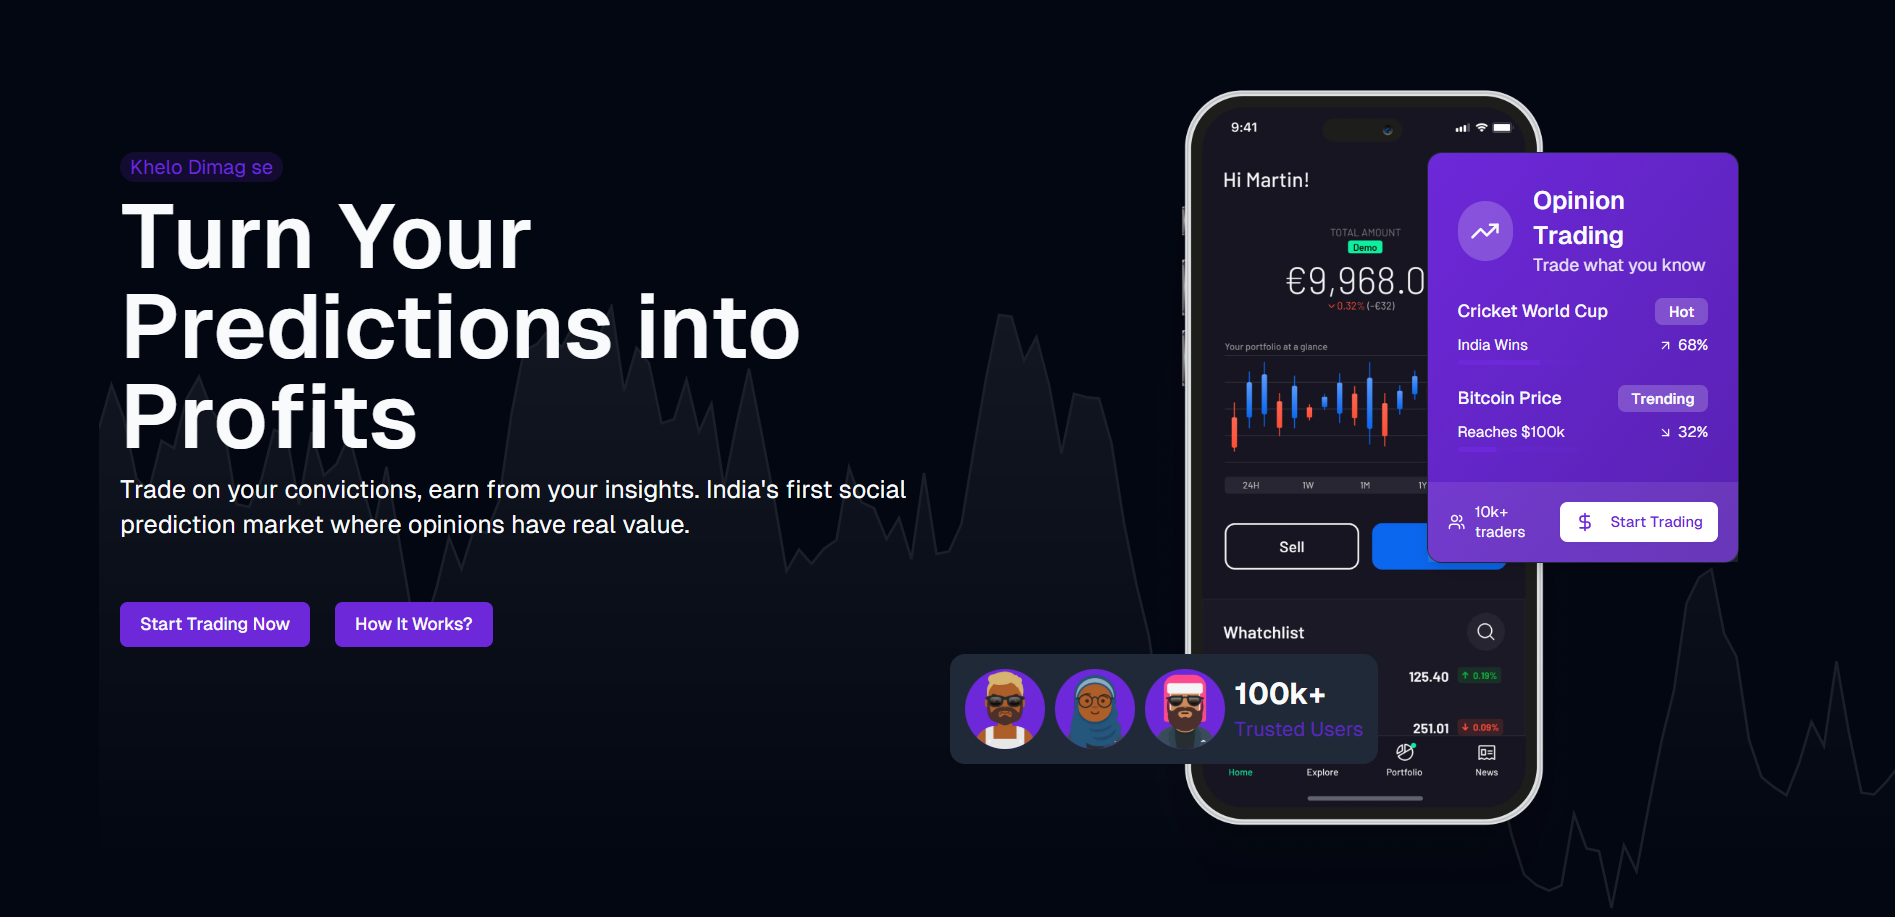
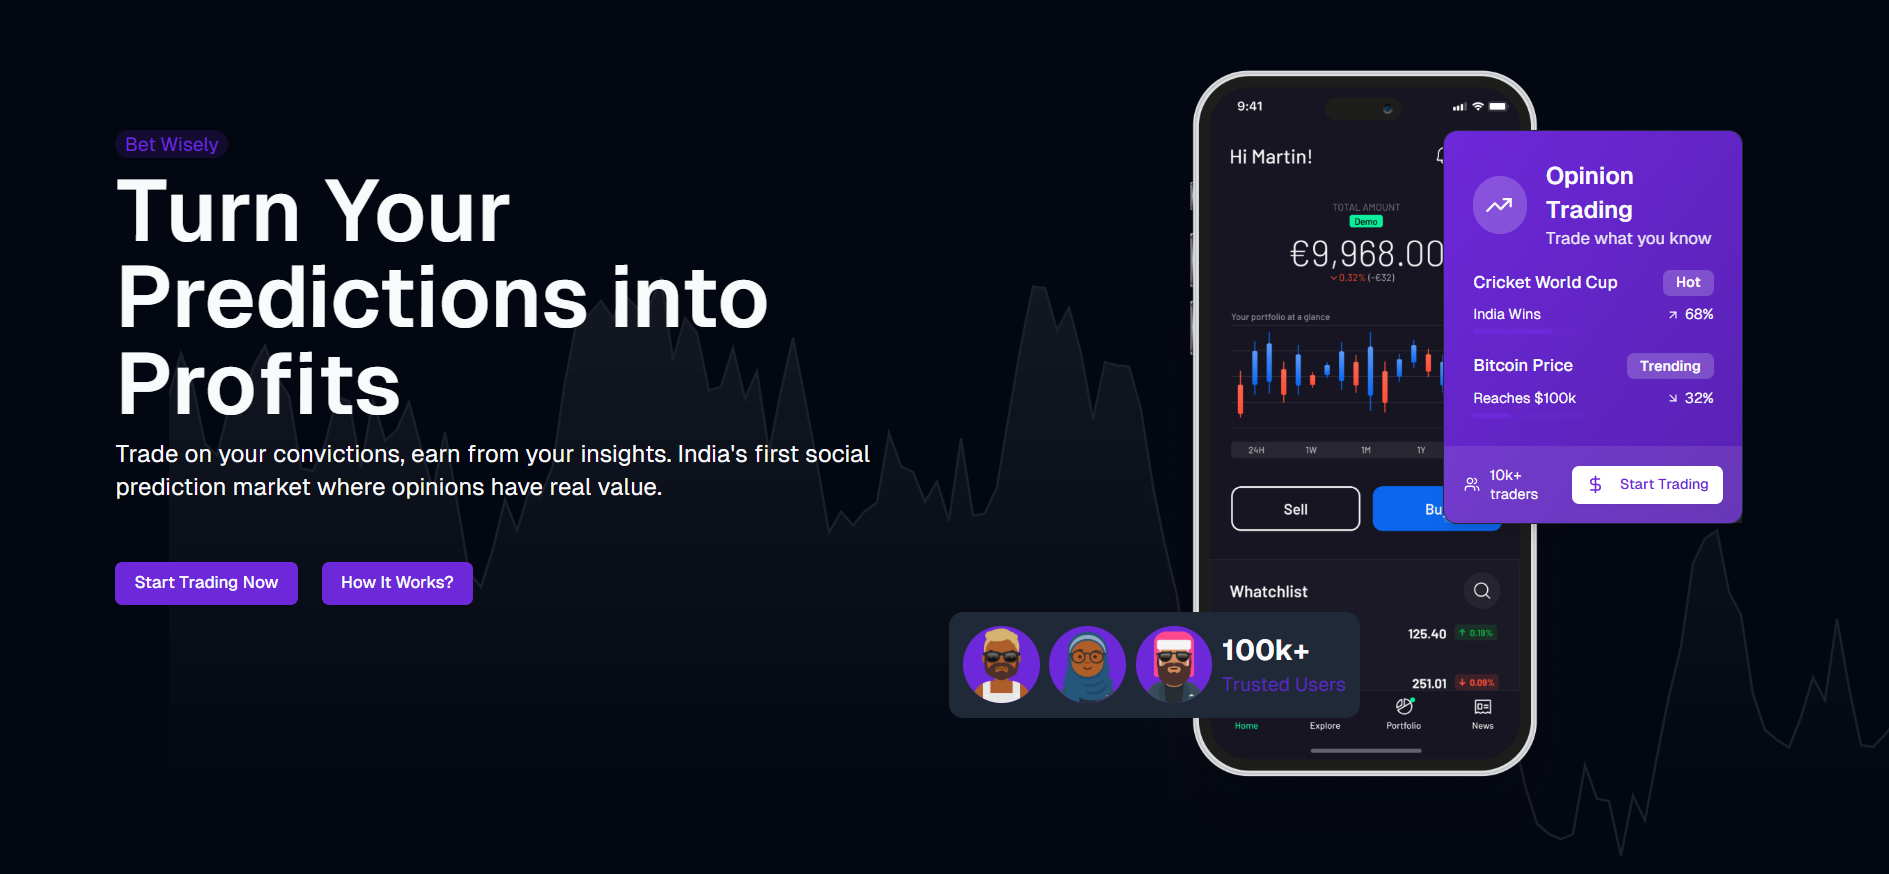
ui improvement

diff --git a/components/ui/What-people-are-saying.tsx b/components/ui/What-people-are-saying.tsx
@@ -9,7 +9,7 @@ const Whatpeoplearesaying = () => {
       </div>
       <div className="bg-background w-full flex flex-col justify-center align-middle items-center  rounded-3xl md:px-10 px-2 py-5 text-center">
         <div className="text-primary text-3xl md:text-7xl font-semibold max-w-4xl">
-          Real Stories, Real Success: Hear From Our Khelo Community
+          Real Stories, Real Success: Hear From Our Betwise Community
         </div>
         <AnimatedTestimonials testimonials={testimonials} />
       </div>
@@ -25,7 +25,7 @@ const testimonials = [
     location: "Mumbai, India",
     src: "https://images.unsplash.com/photo-1624561172888-ac93c696e10c?q=80&w=2592&auto=format&fit=crop&ixlib=rb-4.0.3&ixid=M3wxMjA3fDB8MHxwaG90by1wYWdlfHx8fGVufDB8fHx8fA%3D%3D",
     quote:
-      "I started small with Khelo and within weeks, my predictions began hitting the mark! The platform’s real-time insights are a game-changer. I&apos;ve already cashed out ₹15,000 in winnings. Highly recommend it to anyone who loves strategy and fun.",
+      "I started small with Betwise and within weeks, my predictions began hitting the mark! The platform’s real-time insights are a game-changer. I&apos;ve already cashed out ₹15,000 in winnings. Highly recommend it to anyone who loves strategy and fun.",
     rating: 4.8,
   },
   {
@@ -33,7 +33,7 @@ const testimonials = [
     location: "Bangalore, India",
     src: "https://images.unsplash.com/photo-1636041293178-808a6762ab39?q=80&w=3464&auto=format&fit=crop&ixlib=rb-4.0.3&ixid=M3wxMjA3fDB8MHxwaG90by1wYWdlfHx8fGVufDB8fHx8fA%3D%3D",
     quote:
-      "As someone who loves cricket and finance, Khelo combines the best of both worlds for me. Their prediction markets are spot-on, and the interface is super user-friendly. Last IPL season, I made ₹7,500 just by trusting my instincts!",
+      "As someone who loves cricket and finance, Betwise combines the best of both worlds for me. Their prediction markets are spot-on, and the interface is super user-friendly. Last IPL season, I made ₹7,500 just by trusting my instincts!",
     rating: 5.0,
   },
   {
@@ -41,7 +41,7 @@ const testimonials = [
     location: "Delhi, India",
     src: "https://images.unsplash.com/photo-1623582854588-d60de57fa33f?q=80&w=3540&auto=format&fit=crop&ixlib=rb-4.0.3&ixid=M3wxMjA3fDB8MHxwaG90by1wYWdlfHx8fGVufDB8fHx8fA%3D%3D",
     quote:
-      "Khelo helped me understand markets better while making money. It’s not just about luck—it’s strategy and insights. I use my cryptocurrency earnings to reinvest in other markets.",
+      "Betwise helped me understand markets better while making money. It’s not just about luck—it’s strategy and insights. I use my cryptocurrency earnings to reinvest in other markets.",
     rating: 4.6,
   },
   {
@@ -49,7 +49,7 @@ const testimonials = [
     location: "Pune, India",
     src: "https://images.unsplash.com/photo-1438761681033-6461ffad8d80?q=80&w=3540&auto=format&fit=crop&ixlib=rb-4.0.3&ixid=M3wxMjA3fDB8MHxwaG90by1wYWdlfHx8fGVufDB8fHx8fA%3D%3D",
     quote:
-      "I love the vibrant community on Khelo! The shared tips and analysis have helped me refine my game. Thanks to their sports markets, I’ve made over ₹20,000 in the last 3 months.",
+      "I love the vibrant community on Betwise! The shared tips and analysis have helped me refine my game. Thanks to their sports markets, I’ve made over ₹20,000 in the last 3 months.",
     rating: 4.9,
   },
   {
@@ -57,7 +57,7 @@ const testimonials = [
     location: "Hyderabad, India",
     src: "https://images.unsplash.com/photo-1535713875002-d1d0cf377fde?q=80&w=3560&auto=format&fit=crop&ixlib=rb-4.0.3&ixid=M3wxMjA3fDB8MHxwaG90by1wYWdlfHx8fGVufDB8fHx8fA%3D%3D",
     quote:
-      "Initially skeptical, I joined Khelo to test my knowledge of global events. I’m thrilled to say it exceeded my expectations. The predictions I made during the US elections alone brought in ₹10,000.",
+      "Initially skeptical, I joined Betwise to test my knowledge of global events. I’m thrilled to say it exceeded my expectations. The predictions I made during the US elections alone brought in ₹10,000.",
     rating: 4.7,
   },
 ];

diff --git a/app/layout.tsx b/app/layout.tsx
@@ -20,31 +20,31 @@ const geistMono = localFont({
 });
 
 export const metadata: Metadata = {
-  title: "Khelo - Predict and Play",
+  title: "Betwise - Bet Wisely",
   description:
-    "Khelo is a leading prediction market app where users can make predictions, earn rewards, and join a vibrant community.",
+    "Betwise is a leading prediction market app where users can make predictions, earn rewards, and join a vibrant community.",
   openGraph: {
     type: "website",
     locale: "en_US",
-    url: "https://kheloyaha.vercel.app/",
-    title: "Khelo - Predict and Play",
+    url: "https://betwise.varekle.tech/",
+    title: "Betwise - Bet Wisely",
     description:
-      "Khelo is a leading prediction market app where users can make predictions, earn rewards, and join a vibrant community.",
+      "Betwise is a leading prediction market app where users can make predictions, earn rewards, and join a vibrant community.",
     images: [
       {
-        url: "hhttps://kheloyaha.vercel.app/og-image.jpg",
+        url: "https://betwise.varekle.tech/opengraph-image.png",
         width: 1200,
         height: 630,
-        alt: "Khelo - Predict and Play",
+        alt: "Betwise - Bet Wisely",
       },
     ],
   },
   twitter: {
     card: "summary_large_image",
-    title: "Khelo - Predict and Play",
+    title: "Betwise - Bet Wisely",
     description:
-      "Khelo is a leading prediction market app where users can make predictions, earn rewards, and join a vibrant community.",
-    images: ["https://kheloyaha.vercel.app/og-image.jpg"],
+      "Betwise is a leading prediction market app where users can make predictions, earn rewards, and join a vibrant community.",
+    images: ["https://betwise.varekle.tech/twitter-image.png"],
   },
 };
 
@@ -60,7 +60,9 @@ export default function RootLayout({
       }}
     >
       <html lang="en">
-        <head></head>
+        <head>
+          <meta name="apple-mobile-web-app-title" content="MyWebSite" />
+        </head>
         <body
           className={`${geistSans.variable} ${geistMono.variable} antialiased bg-background dark flex justify-center align-middle items-center flex-col`}
         >

diff --git a/components/ui/Navbar.tsx b/components/ui/Navbar.tsx
@@ -27,23 +27,27 @@ const Navbar = () => {
       <div className="flex justify-between align-middle items-center gap-14">
         <div className="logo ">
           <span className="flex justify-between align-middle items-center text-3xl text-primary">
-            <Dices className="size-9 " />
-            <Link href={"/"}>Khelo</Link>
+            <Link href={"/"} className="flex">
+              <Dices className="size-9 " />
+              Betwise
+            </Link>
           </span>
         </div>
-        <div className="midsection  justify-between align-middle items-center gap-4 md:flex hidden">
+        {/* <div className="midsection  justify-between align-middle items-center gap-4 md:flex hidden">
           <div className="trading flex justify-center align-middle items-center gap-1  text-xl hover:text-primary hover:cursor-pointer hover:scale-105 ease-linear duration-200">
             Trading <ChartNoAxesCombined className="size-5" />
           </div>
           <div className="Read flex justify-center align-middle items-center gap-1  text-xl hover:text-primary hover:cursor-pointer hover:scale-105 ease-linear duration-200">
             Read <Book className="size-5" />
           </div>
-        </div>
+        </div> */}
       </div>
       <div className="endCTA gap-5  md:flex hidden">
-        <Button>Download App</Button>
         <Button>
           <Link href={"/trading"}>Trade Online</Link>
+        </Button>
+        <Button>
+          <Link href={"/portfolio"}>View Portfolio</Link>
         </Button>
         {!isLoaded ? (
           <div className="">
@@ -63,7 +67,7 @@ const Navbar = () => {
         )}
       </div>
 
-      <div className="md:hidden flex  justify-center align-middle items-center gap-2">
+      <div className="md:hidden flex justify-center align-middle items-center gap-2">
         <MobileBar />
         <SignedIn>
           <UserButton />

diff --git a/components/ui/Hero.tsx b/components/ui/Hero.tsx
@@ -23,7 +23,7 @@ const Hero = () => {
     <div className="md:grid grid-cols-2 md:p-24 relative p-5 overflow-hidden">
       <div className="left-part dark gap-2 flex flex-col  text-foreground mt-16 z-40">
         <div className="small-tagline bg-primary/15 max-w-max px-2 rounded-xl">
-          <span className="text-primary">Khelo Dimag se</span>
+          <span className="text-primary">Bet Wisely</span>
         </div>
         <div className="Main-text-here">
           <span className="lg:text-7xl md:text-5xl text-3xl font-semibold  font-[family-name:var(--font-geist-sans)]">
@@ -139,7 +139,7 @@ const FloatingDetailedCard = () => {
             className="bg-white text-primary hover:bg-white/90"
           >
             <DollarSign className="h-4 w-4 mr-1" />
-            Start Trading
+            <Link href={"/trading"}>Start Trading</Link>
           </Button>
         </div>
       </CardFooter>

diff --git a/components/ui/Footer.tsx b/components/ui/Footer.tsx
@@ -11,7 +11,7 @@ export default function Footer() {
               <div className="logo ">
                 <span className="flex justify-between align-middle items-center text-3xl text-primary">
                   <Dices className="size-9 " />
-                  <Link href={"/"}>Khelo</Link>
+                  <Link href={"/"}>Betwise</Link>
                 </span>
               </div>
             </Link>
@@ -116,7 +116,7 @@ export default function Footer() {
         </div>
         <div className="mt-12 pt-8 border-t border-gray-800">
           <p className="text-center text-gray-400">
-            © {new Date().getFullYear()} Khelo. All rights reserved.
+            © {new Date().getFullYear()} Betwise. All rights reserved.
           </p>
         </div>
       </div>

diff --git a/components/ui/KeyFeatures.tsx b/components/ui/KeyFeatures.tsx
@@ -10,7 +10,7 @@ const KeyFeatures = () => {
   return (
     <div className="flex flex-col justify-center align-middle items-center mt-10 bg-card-foreground px-2 py-4 md:px-44 text-center gap-2">
       <div className="small-tagline bg-primary/15 max-w-max px-2 rounded-xl">
-        <span className="text-primary">Khelo Dimag se</span>
+        <span className="text-primary">Bet wisely</span>
       </div>
       <div className="">
         <span className="text-primary text-4xl md:text-7xl font-semibold">

diff --git a/components/ui/HowItWorks.tsx b/components/ui/HowItWorks.tsx
@@ -23,7 +23,7 @@ function HowItWorks() {
           <span className="text-primary">How It Works?</span>
         </div>
         <div className="text-primary text-3xl md:text-7xl font-semibold">
-          From Insight to Profit: How to Navigate Khelo&apos;s Prediction
+          From Insight to Profit: How to Navigate Betwise&apos;s Prediction
           Markets
         </div>
         <p className="text-foreground max-w-2xl mx-auto">
